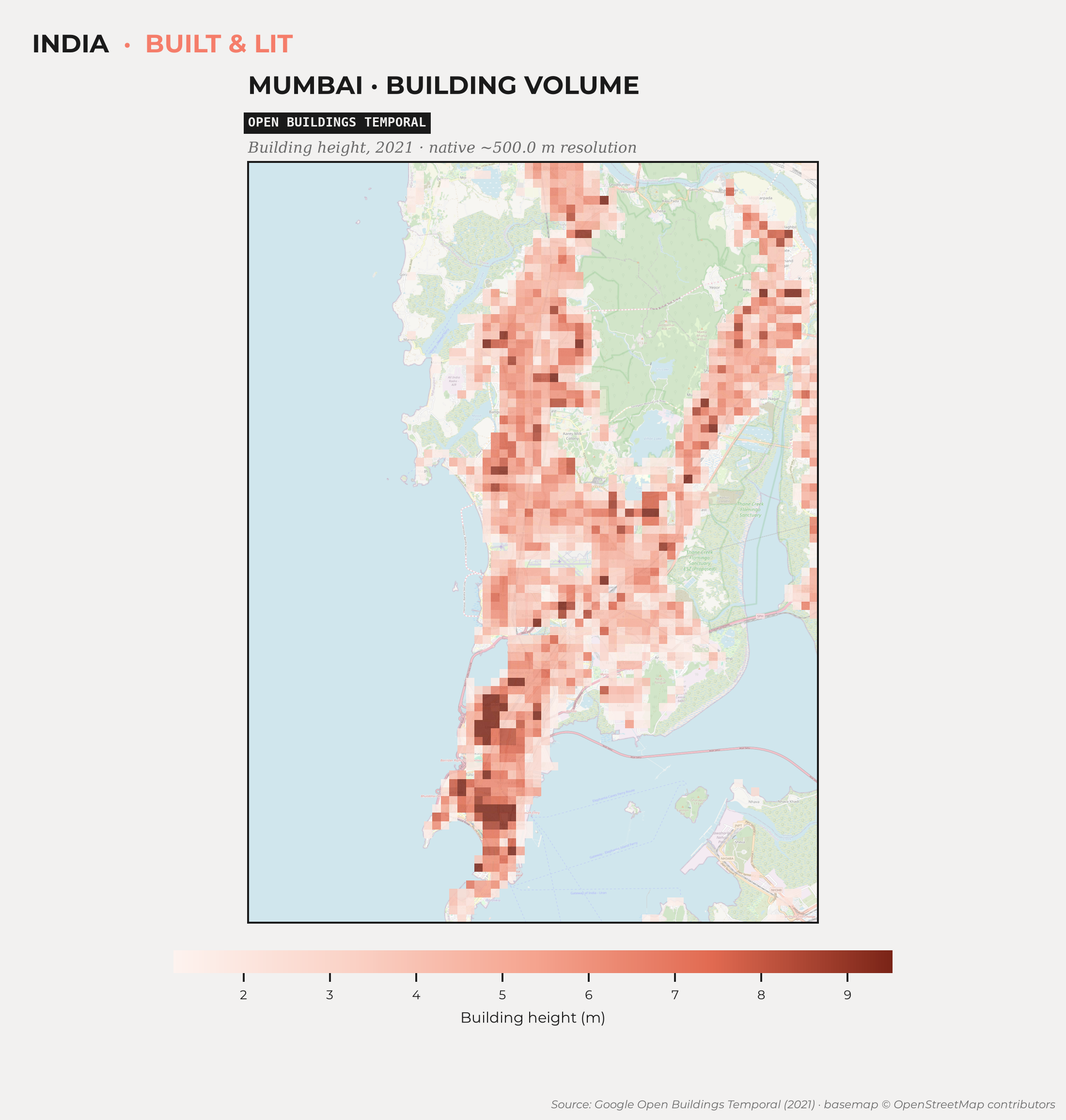
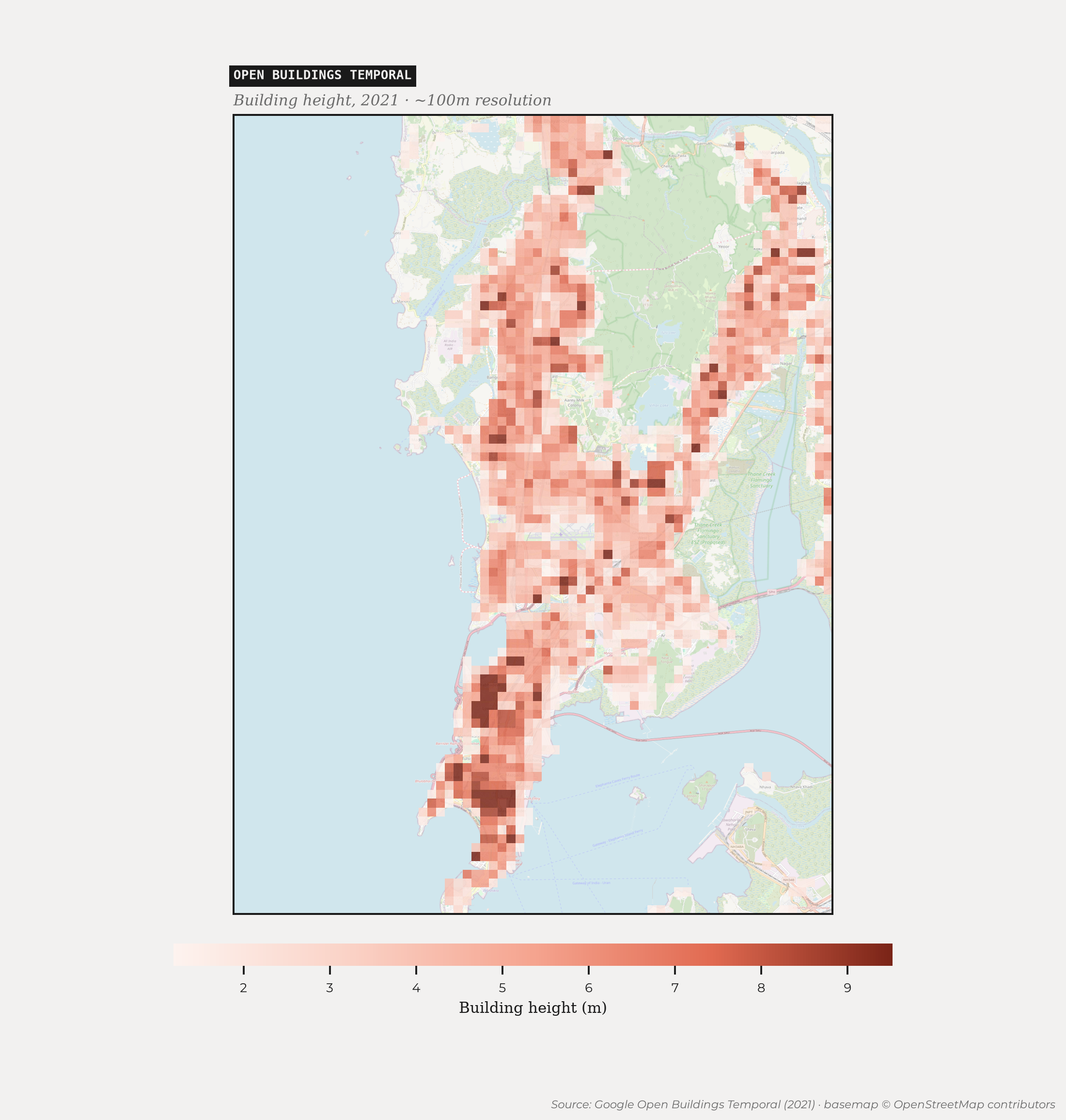
updated blog with images, citations

Changed region(s): [[0.1236, 0.0312, 0.8345, 0.9351], [0.0309, 0.0312, 0.0927, 0.0623]]

diff --git a/blog/article_current.html b/blog/article_current.html
@@ -2,38 +2,68 @@
 
 <p>While India's statistical machinery does produce a staggering quantity of data, it is rarely cooperative. It is often outdated, available at inconvenient resolutions, and occasionally simply absent. We know relatively little about how economic activity changes from one district to another in real time. We know even less about something as fundamental as the stock of physical capital.</p>
 
-<p>There is no official district-level measure of how much has been built, or how quickly the built-up environment is changing. Yet infrastructure, industrial concentration, and urban growth&mdash;the very indicators that matter most for public policy&mdash;are uncooperatively determined at the sub-state level. Aggregated, lagged statistics hide much of the story.</p>
+<p>There is no official district-level measure of how much has been built, or how quickly the built-up environment is changing. Yet infrastructure, industrial concentration, and urban growth&mdash;the very indicators that matter most for public policy&mdash;are uncooperatively determined at the sub-state level. For example, Lall and Chakravorty (2005) find that the spatial concentration of industry within India is itself a primary cause of income inequality across regions, and that concentration happens at a resolution finer than the state. Aggregated, lagged statistics hide much of the story.</p>
 
 <p>Satellite data offers a solution to this problem.</p>
 
-<p>Every few days, satellites record the changing surface of the Earth. Buildings appear, urban centres expand. Industrial enclaves emerge. After sunset, settlements brighten or dim as economic activity ebbs and flows. None of this was designed as an economic indicator, but together they reveal patterns of economic development that were previously impossible to observe.</p>
+<p>Every few days, satellites record the changing surface of the Earth. Buildings appear, urban centres expand, industrial enclaves emerge, and after sunset settlements brighten or dim as economic activity ebbs and flows. None of this was designed as an economic indicator, but together these traces reveal patterns of economic development that were previously impossible to observe. The idea has a solid pedigree: Henderson, Storeygard and Weil (2012) used the growth of nighttime lights to measure economic growth in places where the national accounts are weak, and Chen and Nordhaus (2011) worked out the conditions under which luminosity adds information to conventional statistics rather than merely restating them.</p>
 
 <p>Unfortunately, working with satellite data is its own can of worms. Processing the raw image data available in esoteric formats, normalising and bias correcting due to myriad factors; anyone hoping for a drop-in proxy for economic activity will soon find themselves in need of not only a crash course in satellite imagery, but ideally a supercomputer to process it.</p>
 
-<p>That is what our new processed district-level dataset for India draws on: two processed, ready-to-use satellite datasets (and the pipelines that created them), tracked separately, that between them provide a bird's eye view of a district's capital and economic activity.</p>
+<p>That is what our new district-level dataset for India draws on: two processed, ready-to-use satellite datasets (and the pipelines that created them), tracked separately, which between them give a bird's eye view of a district's capital and economic activity.</p>
 
-<p>The first is annual building volume, taken from Google's <i>Open Buildings 2.5D Temporal</i> dataset. Built from Sentinel-2 imagery at an effective resolution of 4m, it estimates not just where buildings stand but how tall they are, providing a proxy for accumulated physical capital, year by year, from 2016 to 2023. The raw data is resampled at a 100m resolution (in the interest of quicker processing, which is plenty for district-level analyses), and intelligently chunked to avoid rate limiting. Each district-year row provides the sum of building footprints in a district-year, average height per building, and total volume (which is the product of the previous two measures).</p>
+<p>The first is annual building volume, taken from Google's <i><a href="https://developers.google.com/earth-engine/datasets/catalog/GOOGLE_Research_open-buildings-temporal_v1">Open Buildings 2.5D Temporal</a></i> dataset. Built from Sentinel-2 imagery at an effective resolution of 4m (Sirko et al., 2023), it estimates not just where buildings stand but how tall they are, providing a proxy for accumulated physical capital, year by year, from 2016 to 2023. The raw data is resampled at a 100m resolution (in the interest of quicker processing, which is plenty for district-level analyses), and intelligently chunked to avoid rate limiting. Each district-year row provides the sum of building footprints in a district-year, average height per building, and total volume (which is the product of the previous two measures).</p>
 
-<p>As construction is slow and cumulative, this data moves gradually; it reads less like a snapshot of current activity than a record of what has already been invested in housing, industry and commercial space. The underlying data is presented here as published, without a separate cleaning pass, and the 2022 estimates in particular look odd enough to warrant a second look. While this is a measure that should ideally show a monotonic increase, 2022 shows an unexpected sharp fall in building volume.</p>
+<p>Construction is slow and cumulative, so this data moves gradually; it reads less like a snapshot of current activity than a record of what has already been invested in housing, industry and commercial space. We present the underlying data as published, without a separate cleaning pass, and the 2022 estimates look odd enough to warrant a second look: a measure like this should ordinarily rise monotonically, but 2022 shows a sharp and unexpected fall in building volume.</p>
 
-<p>The second is nighttime lights, from the Visible Infrared Imaging Radiometer Suite (VIIRS), available monthly since 2014 at a 500m resolution. VIIRS provides both average radiance, as well as a count of cloud-free images per pixel/month, and is notoriously difficult to work with. Bloom, background noise, outliers (from, say, flaring gas), as well as seasonal attenuation are all well-documented problems. Seasonal attenuation is particularly of note, as the increased cloud cover and paucity of cloud-free images tend to bias radiance downwards in cloudy months. Indeed, there's a marked and poorly explained correlation between cloud-free images and radiance, which requires significant bias-correction for an issue new users might be wholly unaware of. We take the raw data, batch process them using the PSTT2021 pipeline in <i><a href="https://github.com/xKDR/NighttimeLights.jl">NighttimeLights.jl</a></i> (which corrects a majority of the issues), and aggregate them at a district level. Each district-year-month row provides the sum of radiance, mean radiance per pixel, and pixel count for each district-year-month.</p>
+<p>The map below shows what this looks like for Mumbai in 2021: estimated building height across the metropolitan region, with the densest concentrations along the southern peninsula and the western suburbs.</p>
 
-<p>Lights respond much more quickly than buildings. They brighten as neighbourhoods become more active and dim when activity slows. If buildings measure accumulated capital, nighttime lights measure an economy in motion. One caveat is worth flagging: as household and street lighting shifts to LEDs, measured radiance can fall even where activity is rising, because LEDs emit less in the band VIIRS is sensitive to. A dimmer district is not necessarily a slower one.</p>
+<p>Image file mumbai_bv_overlay.png here.</p>
 
-<p>Read on their own, each answers a straightforward question. Read together, they answer a more useful one.</p>
+<p>The second is nighttime lights, from the Visible Infrared Imaging Radiometer Suite (VIIRS) (Elvidge et al., 2021) and available monthly since 2014 at a 500m resolution. VIIRS gives both average radiance and a count of cloud-free images per pixel per month, and it is notoriously difficult to work with. Bloom, background noise, outliers (from flaring gas, say) and seasonal attenuation are all well-documented problems (Patnaik, Shah and Thomas, 2022). Seasonal attenuation matters most here, because heavier cloud cover and fewer cloud-free images bias radiance downwards in cloudy months. There is also a marked and poorly explained correlation between cloud-free images and radiance (Patnaik et al., 2021), and correcting for it is a significant job that new users may not know they need to do. We take the raw data, batch process it with the PSTT2021 pipeline of Patnaik et al. (2021) as implemented in <i><a href="https://github.com/xKDR/NighttimeLights.jl">NighttimeLights.jl</a></i> (which corrects a majority of the issues), and aggregate to district level. Each district-year-month row gives the sum of radiance, mean radiance per pixel, and pixel count.</p>
+
+<p>Lights respond much more quickly than buildings. They brighten as neighbourhoods become more active and dim when activity slows. If buildings measure accumulated capital, nighttime lights measure an economy in motion. One caveat: as household and street lighting shifts to LEDs, measured radiance can fall even where activity is rising, because LEDs emit less in the band VIIRS is sensitive to (Kyba et al., 2017). A dimmer district is not necessarily a slower one. Gibson, Olivia and Boe-Gibson (2020) survey this and the other traps in the economic use of nighttime lights, and are worth reading before treating radiance as a direct index of output.</p>
+
+<p>The map below shows the same city in the same year, seen in radiance rather than in concrete. The brightest regions match well, but not exactly, with the tallest buildings, highlighting the differences in what each measure picks up.</p>
+
+<p>Image file mumbai_ntl_overlay.png here.</p>
+
+<p>Each dataset answers a straightforward question on its own. Together they answer a more useful one.</p>
 
 <ul>
 <li>Where building volume and lights are both climbing, a district is likely in the midst of genuine, sustained growth.</li>
-<li>Where construction is rising but lights remain flat, new capacity is being built ahead of actual use&mdash;possibly the shrewd foresight of planners anticipating development, or, at the other extreme, a ghost town left behind by overestimating demand.</li>
-<li>Where lights rise with little new construction, existing capital is being used more intensively rather than the district expanding outward&mdash;a sign of constrained resources, limited confidence in long-term growth, or simply a choice to extract more from what is already there.</li>
+<li>Where construction is rising but lights remain flat, new capacity is being built ahead of actual use: possibly the shrewd foresight of planners anticipating development, or, at the other extreme, a ghost town left behind by overestimating demand.</li>
+<li>Where lights rise with little new construction, existing capital is being used more intensively rather than the district expanding outward. That points to constrained resources, limited confidence in long-term growth, or simply a choice to extract more from what is already there.</li>
 </ul>
 
-<p>The chart below shows the starkest district for each of these patterns between 2016 and 2021: Mewat, where building volume and lights climbed together; Pithoragarh, where both fell together; Gonda, where construction ran ahead of measured activity; and so on through all nine combinations of rising, flat and falling volume and lights.</p>
+<p>The chart below shows the starkest district for each of these patterns between 2016 and 2023: Mewat, where building volume and lights climbed together; Pithoragarh, where both fell together; Gonda, where construction ran ahead of measured activity; and so on through all nine combinations of rising, flat and falling volume and lights.</p>
 
-<p>Image file bv_ntl_trends_stark_districts.png here.</p>
+<p>Image file bv_ntl_trends_stark_2023.png here.</p>
 
-<p>We built this dataset to make these kinds of questions easier to ask. We built it at a scale India's official statistics don't reach: the district, updated annually or monthly instead of once a decade. It should be useful to researchers working on regional inequality, urbanisation and the geography of growth, and to anyone in government trying to keep track of places where the usual numbers arrive too late (if at all).</p>
+<p>We built this dataset to make these kinds of questions easier to ask. We built it at a scale India's official statistics don't reach: the district, updated annually or monthly instead of once a decade. Beyer, Chhabra, Galdo and Rama (2018) showed what that resolution buys: working with cleaned VIIRS at the district level, they traced the effect of demonetisation on Indian districts month by month, an episode that state-level annual data would have largely smoothed away. It should be useful to researchers working on regional inequality, urbanisation and the geography of growth, and to anyone in government trying to keep track of places where the usual numbers arrive too late (if at all).</p>
 
 <p>The processing pipeline is public and runs end to end in two Colab notebooks, one for <a href="https://colab.research.google.com/github/xKDR/India-Built-and-Lit/blob/main/building_volume.ipynb">building volume</a> and one for <a href="https://colab.research.google.com/github/xKDR/India-Built-and-Lit/blob/main/nighttime_lights.ipynb">nighttime lights</a>, with the cleaned outputs also available as CSVs (<a href="https://xkdr.github.io/India-Built-and-Lit/data/bv_annual.csv">BV</a>, <a href="https://xkdr.github.io/India-Built-and-Lit/data/viirs_monthly.csv">NL</a>, and <a href="https://xkdr.github.io/India-Built-and-Lit/data/districts_simplified.geojson">district bounds</a>). Swap the geography to point it at a different country or a different administrative boundary, and the pipelines will cooperate. Economic development leaves visible traces on the landscape long before it appears in statistical data. Satellites make those traces visible. Our hope is that this dataset makes them usable.</p>
+
+<h3>Bibliography</h3>
+
+<p><i><a href="https://openknowledge.worldbank.org/entities/publication/86379208-572b-50af-af6c-9c08ece68edc/full">Measuring districts' monthly economic activity from outer space</a></i>, Robert Beyer, Esha Chhabra, Virgilio Galdo and Martin Rama, World Bank Policy Research Working Paper No. 8523, July 2018.</p>
+
+<p><i><a href="https://www.pnas.org/doi/10.1073/pnas.1017031108">Using luminosity data as a proxy for economic statistics</a></i>, Xi Chen and William D. Nordhaus, Proceedings of the National Academy of Sciences, Vol. 108, No. 21, May 2011.</p>
+
+<p><i><a href="https://doi.org/10.4324/9781003169246-1">VIIRS night-time lights</a></i>, Christopher D. Elvidge, Kimberly Baugh, Mikhail Zhizhin, Feng Chi Hsu and Tilottama Ghosh, in Remote Sensing of Night-time Light, Routledge, 2021.</p>
+
+<p><i><a href="https://onlinelibrary.wiley.com/doi/abs/10.1111/joes.12387">Night lights in economics: Sources and uses</a></i>, John Gibson, Susan Olivia and Geua Boe-Gibson, Journal of Economic Surveys, Vol. 34, No. 5, December 2020.</p>
+
+<p><i><a href="https://www.aeaweb.org/articles?id=10.1257/aer.102.2.994">Measuring economic growth from outer space</a></i>, J. Vernon Henderson, Adam Storeygard and David N. Weil, American Economic Review, Vol. 102, No. 2, April 2012.</p>
+
+<p><i><a href="https://www.science.org/doi/10.1126/sciadv.1701528">Artificially lit surface of Earth at night increasing in radiance and extent</a></i>, Christopher C. M. Kyba and others, Science Advances, Vol. 3, No. 11, November 2017.</p>
+
+<p><i><a href="https://onlinelibrary.wiley.com/doi/abs/10.1111/j.1467-9361.2005.00263.x">Industrial location and spatial inequality: Theory and evidence from India</a></i>, Somik V. Lall and Sanjoy Chakravorty, Review of Development Economics, Vol. 9, No. 1, February 2005.</p>
+
+<p><i><a href="https://xkdr.org/paper/but-clouds-got-in-my-way-bias-and-bias-correction-of-viirs-nighttime-lights-data-in-the-presence-of-clouds">But clouds got in my way: Bias and bias correction of VIIRS nighttime lights data in the presence of clouds</a></i>, Ayush Patnaik, Ajay Shah, Anshul Tayal and Susan Thomas, xKDR Forum Working Paper No. 7, October 2021.</p>
+
+<p><i><a href="https://xkdr.org/paper/foundations-for-nighttime-lights-data-analysis">Foundations for nighttime lights data analysis</a></i>, Ayush Patnaik, Ajay Shah and Susan Thomas, xKDR Forum Working Paper No. 19, December 2022.</p>
+
+<p><i><a href="https://arxiv.org/abs/2310.11622">High-resolution building and road detection from Sentinel-2</a></i>, Wojciech Sirko, Emmanuel Asiedu Brempong, Juliana T. C. Marcos, Abigail Annkah, Abel Korme, Mohammed Alewi Hassen, Krishna Sapkota, Tomer Shekel, Abdoulaye Diack, Sella Nevo and others, arXiv:2310.11622, 2023.</p>
 
 <p>[AUTHOR NAMES] are [BLANK]. Thanks to [BLANK] for comments.</p>

diff --git a/blog/article_current.md b/blog/article_current.md
@@ -2,36 +2,66 @@ By [AUTHOR NAME]. Comparing how fast two Indian districts are growing is more fr
 
 While India's statistical machinery does produce a staggering quantity of data, it is rarely cooperative. It is often outdated, available at inconvenient resolutions, and occasionally simply absent. We know relatively little about how economic activity changes from one district to another in real time. We know even less about something as fundamental as the stock of physical capital. 
 
-There is no official district-level measure of how much has been built, or how quickly the built-up environment is changing. Yet infrastructure, industrial concentration, and urban growth—the very indicators that matter most for public policy—are uncooperatively determined at the sub-state level. Aggregated, lagged statistics hide much of the story.
+There is no official district-level measure of how much has been built, or how quickly the built-up environment is changing. Yet infrastructure, industrial concentration, and urban growth—the very indicators that matter most for public policy—are uncooperatively determined at the sub-state level. For example, Lall and Chakravorty (2005) find that the spatial concentration of industry within India is itself a primary cause of income inequality across regions, and that concentration happens at a resolution finer than the state. Aggregated, lagged statistics hide much of the story.
 
 Satellite data offers a solution to this problem. 
 
-Every few days, satellites record the changing surface of the Earth. Buildings appear, urban centres expand. Industrial enclaves emerge. After sunset, settlements brighten or dim as economic activity ebbs and flows. None of this was designed as an economic indicator, but together they reveal patterns of economic development that were previously impossible to observe.
+Every few days, satellites record the changing surface of the Earth. Buildings appear, urban centres expand, industrial enclaves emerge, and after sunset settlements brighten or dim as economic activity ebbs and flows. None of this was designed as an economic indicator, but together these traces reveal patterns of economic development that were previously impossible to observe. The idea has a solid pedigree: Henderson, Storeygard and Weil (2012) used the growth of nighttime lights to measure economic growth in places where the national accounts are weak, and Chen and Nordhaus (2011) worked out the conditions under which luminosity adds information to conventional statistics rather than merely restating them.
 
 Unfortunately, working with satellite data is its own can of worms. Processing the raw image data available in esoteric formats, normalising and bias correcting due to myriad factors; anyone hoping for a drop-in proxy for economic activity will soon find themselves in need of not only a crash course in satellite imagery, but ideally a supercomputer to process it.
 
-That is what our new processed district level dataset for India draws on: two processed, ready-to-use satellite datasets (and the pipelines that created them), tracked separately, that between them provide a bird's eye view of a district's capital and economic activity.
+That is what our new district-level dataset for India draws on: two processed, ready-to-use satellite datasets (and the pipelines that created them), tracked separately, which between them give a bird's eye view of a district's capital and economic activity.
 
-The first is annual building volume, taken from Google's Open Buildings 2.5D Temporal dataset. Built from Sentinel-2 imagery at an effective resolution of 4m, it estimates not just where buildings stand but how tall they are, providing a proxy for accumulated physical capital, year by year, from 2016 to 2023. The raw data is resampled at a 100m resolution (in the interest of quicker processing, which is plenty for district-level analyses), and intelligently chunked to avoid rate limiting. Each district-year row provides the sum of building footprints in a district-year, average height per building, and total volume (which is the product of the previous two measures).  
+The first is annual building volume, taken from Google's [Open Buildings 2.5D Temporal](https://developers.google.com/earth-engine/datasets/catalog/GOOGLE_Research_open-buildings-temporal_v1) dataset. Built from Sentinel-2 imagery at an effective resolution of 4m (Sirko et al., 2023), it estimates not just where buildings stand but how tall they are, providing a proxy for accumulated physical capital, year by year, from 2016 to 2023. The raw data is resampled at a 100m resolution (in the interest of quicker processing, which is plenty for district-level analyses), and intelligently chunked to avoid rate limiting. Each district-year row provides the sum of building footprints in a district-year, average height per building, and total volume (which is the product of the previous two measures).  
 
-As construction is slow and cumulative, this data moves gradually; it reads less like a snapshot of current activity than a record of what has already been invested in housing, industry and commercial space. The underlying data is presented here as published, without a separate cleaning pass, and the 2022 estimates in particular look odd enough to warrant a second look. While this is a measure that should ideally show a monotonic increase, 2022 shows an unexpected sharp fall in building volume.
+Construction is slow and cumulative, so this data moves gradually; it reads less like a snapshot of current activity than a record of what has already been invested in housing, industry and commercial space. We present the underlying data as published, without a separate cleaning pass, and the 2022 estimates look odd enough to warrant a second look: a measure like this should ordinarily rise monotonically, but 2022 shows a sharp and unexpected fall in building volume.
 
-The second is nighttime lights, from the Visible Infrared Imaging Radiometer Suite (VIIRS), available monthly since 2014 at a 500m resolution. VIIRS provides both average radiance, as well as a count of cloud-free images per pixel/month, and is notoriously difficult to work with. Bloom, background noise, outliers (from, say, flaring gas), as well as seasonal attenuation are all well-documented problems. Seasonal attenuation is particularly of note, as the increased cloud cover and paucity of cloud-free images tend to bias radiance downwards in cloudy months. Indeed, there's a marked and poorly explained correlation between cloud-free images and radiance, which requires significant bias-correction for an issue new users might be wholly unaware of. We take the raw data, batch process them using the PSTT2021 pipeline in [NighttimeLights.jl](https://github.com/xKDR/NighttimeLights.jl) (which corrects a majority of the issues), and aggregate them at a district level. Each district-year-month row provides the sum of radiance, mean radiance per pixel, and pixel count for each district-year-month.
+The map below shows what this looks like for Mumbai in 2021: estimated building height across the metropolitan region, with the densest concentrations along the southern peninsula and the western suburbs.
 
-Lights respond much more quickly than buildings. They brighten as neighbourhoods become more active and dim when activity slows. If buildings measure accumulated capital, nighttime lights measure an economy in motion. One caveat is worth flagging: as household and street lighting shifts to LEDs, measured radiance can fall even where activity is rising, because LEDs emit less in the band VIIRS is sensitive to. A dimmer district is not necessarily a slower one.
+![Mumbai building volume](mumbai_bv_overlay.png)
 
-Read on their own, each answers a straightforward question. Read together, they answer a more useful one.
+The second is nighttime lights, from the Visible Infrared Imaging Radiometer Suite (VIIRS) (Elvidge et al., 2021) and available monthly since 2014 at a 500m resolution. VIIRS gives both average radiance and a count of cloud-free images per pixel per month, and it is notoriously difficult to work with. Bloom, background noise, outliers (from flaring gas, say) and seasonal attenuation are all well-documented problems (Patnaik, Shah and Thomas, 2022). Seasonal attenuation matters most here, because heavier cloud cover and fewer cloud-free images bias radiance downwards in cloudy months. There is also a marked and poorly explained correlation between cloud-free images and radiance (Patnaik et al., 2021), and correcting for it is a significant job that new users may not know they need to do. We take the raw data, batch process it with the PSTT2021 pipeline of Patnaik et al. (2021) as implemented in [NighttimeLights.jl](https://github.com/xKDR/NighttimeLights.jl) (which corrects a majority of the issues), and aggregate to district level. Each district-year-month row gives the sum of radiance, mean radiance per pixel, and pixel count.
+
+Lights respond much more quickly than buildings. They brighten as neighbourhoods become more active and dim when activity slows. If buildings measure accumulated capital, nighttime lights measure an economy in motion. One caveat: as household and street lighting shifts to LEDs, measured radiance can fall even where activity is rising, because LEDs emit less in the band VIIRS is sensitive to (Kyba et al., 2017). A dimmer district is not necessarily a slower one. Gibson, Olivia and Boe-Gibson (2020) survey this and the other traps in the economic use of nighttime lights, and are worth reading before treating radiance as a direct index of output.
+
+The map below shows the same city in the same year, seen in radiance rather than in concrete. The brightest regions match well, but not exactly, with the tallest buildings, highlighting the differences in what each measure picks up.
+
+![Mumbai nighttime lights](mumbai_ntl_overlay.png)
+
+Each dataset answers a straightforward question on its own. Together they answer a more useful one.
 
 - Where building volume and lights are both climbing, a district is likely in the midst of genuine, sustained growth.
-- Where construction is rising but lights remain flat, new capacity is being built ahead of actual use—possibly the shrewd foresight of planners anticipating development, or, at the other extreme, a ghost town left behind by overestimating demand.
-- Where lights rise with little new construction, existing capital is being used more intensively rather than the district expanding outward—a sign of constrained resources, limited confidence in long-term growth, or simply a choice to extract more from what is already there.
+- Where construction is rising but lights remain flat, new capacity is being built ahead of actual use: possibly the shrewd foresight of planners anticipating development, or, at the other extreme, a ghost town left behind by overestimating demand.
+- Where lights rise with little new construction, existing capital is being used more intensively rather than the district expanding outward. That points to constrained resources, limited confidence in long-term growth, or simply a choice to extract more from what is already there.
 
-The chart below shows the starkest district for each of these patterns between 2016 and 2021: Mewat, where building volume and lights climbed together; Pithoragarh, where both fell together; Gonda, where construction ran ahead of measured activity; and so on through all nine combinations of rising, flat and falling volume and lights.
+The chart below shows the starkest district for each of these patterns between 2016 and 2023: Mewat, where building volume and lights climbed together; Pithoragarh, where both fell together; Gonda, where construction ran ahead of measured activity; and so on through all nine combinations of rising, flat and falling volume and lights.
 
-![NTL Trends](bv_ntl_trends_stark_districts.png)
+![NTL Trends](bv_ntl_trends_stark_2023.png)
 
-We built this dataset to make these kinds of questions easier to ask. We built it at a scale India's official statistics don't reach: the district, updated annually or monthly instead of once a decade. It should be useful to researchers working on regional inequality, urbanisation and the geography of growth, and to anyone in government trying to keep track of places where the usual numbers arrive too late (if at all).
+We built this dataset to make these kinds of questions easier to ask. We built it at a scale India's official statistics don't reach: the district, updated annually or monthly instead of once a decade. Beyer, Chhabra, Galdo and Rama (2018) showed what that resolution buys: working with cleaned VIIRS at the district level, they traced the effect of demonetisation on Indian districts month by month, an episode that state-level annual data would have largely smoothed away. It should be useful to researchers working on regional inequality, urbanisation and the geography of growth, and to anyone in government trying to keep track of places where the usual numbers arrive too late (if at all).
 
 The processing pipeline is public and runs end to end in two Colab notebooks, one for [building volume](https://colab.research.google.com/github/xKDR/India-Built-and-Lit/blob/main/building_volume.ipynb) and one for [nighttime lights](https://colab.research.google.com/github/xKDR/India-Built-and-Lit/blob/main/nighttime_lights.ipynb), with the cleaned outputs also available as CSVs ([BV](https://xkdr.github.io/India-Built-and-Lit/data/bv_annual.csv), [NL](https://xkdr.github.io/India-Built-and-Lit/data/viirs_monthly.csv), and [district bounds](https://xkdr.github.io/India-Built-and-Lit/data/districts_simplified.geojson)). Swap the geography to point it at a different country or a different administrative boundary, and the pipelines will cooperate. Economic development leaves visible traces on the landscape long before it appears in statistical data. Satellites make those traces visible. Our hope is that this dataset makes them usable.
+
+### Bibliography
+
+*[Measuring districts' monthly economic activity from outer space](https://openknowledge.worldbank.org/entities/publication/86379208-572b-50af-af6c-9c08ece68edc/full)*, Robert Beyer, Esha Chhabra, Virgilio Galdo and Martin Rama, World Bank Policy Research Working Paper No. 8523, July 2018.
+
+*[Using luminosity data as a proxy for economic statistics](https://www.pnas.org/doi/10.1073/pnas.1017031108)*, Xi Chen and William D. Nordhaus, Proceedings of the National Academy of Sciences, Vol. 108, No. 21, May 2011.
+
+*[VIIRS night-time lights](https://doi.org/10.4324/9781003169246-1)*, Christopher D. Elvidge, Kimberly Baugh, Mikhail Zhizhin, Feng Chi Hsu and Tilottama Ghosh, in Remote Sensing of Night-time Light, Routledge, 2021.
+
+*[Night lights in economics: Sources and uses](https://onlinelibrary.wiley.com/doi/abs/10.1111/joes.12387)*, John Gibson, Susan Olivia and Geua Boe-Gibson, Journal of Economic Surveys, Vol. 34, No. 5, December 2020.
+
+*[Measuring economic growth from outer space](https://www.aeaweb.org/articles?id=10.1257/aer.102.2.994)*, J. Vernon Henderson, Adam Storeygard and David N. Weil, American Economic Review, Vol. 102, No. 2, April 2012.
+
+*[Artificially lit surface of Earth at night increasing in radiance and extent](https://www.science.org/doi/10.1126/sciadv.1701528)*, Christopher C. M. Kyba and others, Science Advances, Vol. 3, No. 11, November 2017.
+
+*[Industrial location and spatial inequality: Theory and evidence from India](https://onlinelibrary.wiley.com/doi/abs/10.1111/j.1467-9361.2005.00263.x)*, Somik V. Lall and Sanjoy Chakravorty, Review of Development Economics, Vol. 9, No. 1, February 2005.
+
+*[But clouds got in my way: Bias and bias correction of VIIRS nighttime lights data in the presence of clouds](https://xkdr.org/paper/but-clouds-got-in-my-way-bias-and-bias-correction-of-viirs-nighttime-lights-data-in-the-presence-of-clouds)*, Ayush Patnaik, Ajay Shah, Anshul Tayal and Susan Thomas, xKDR Forum Working Paper No. 7, October 2021.
+
+*[Foundations for nighttime lights data analysis](https://xkdr.org/paper/foundations-for-nighttime-lights-data-analysis)*, Ayush Patnaik, Ajay Shah and Susan Thomas, xKDR Forum Working Paper No. 19, December 2022.
+
+*[High-resolution building and road detection from Sentinel-2](https://arxiv.org/abs/2310.11622)*, Wojciech Sirko, Emmanuel Asiedu Brempong, Juliana T. C. Marcos, Abigail Annkah, Abel Korme, Mohammed Alewi Hassen, Krishna Sapkota, Tomer Shekel, Abdoulaye Diack, Sella Nevo and others, arXiv:2310.11622, 2023.
 
 [AUTHOR NAMES] are [BLANK]. Thanks to [BLANK] for comments.
